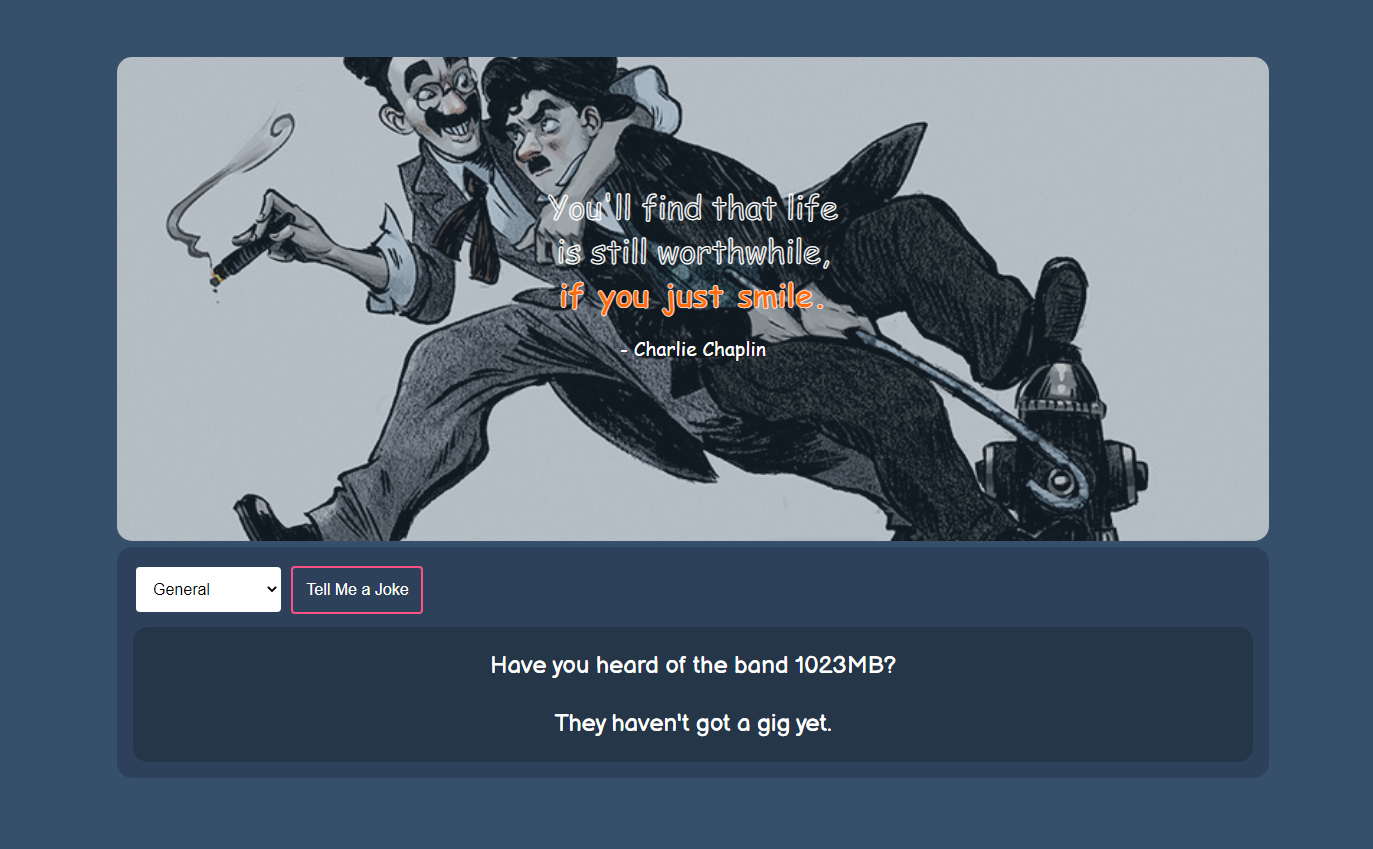
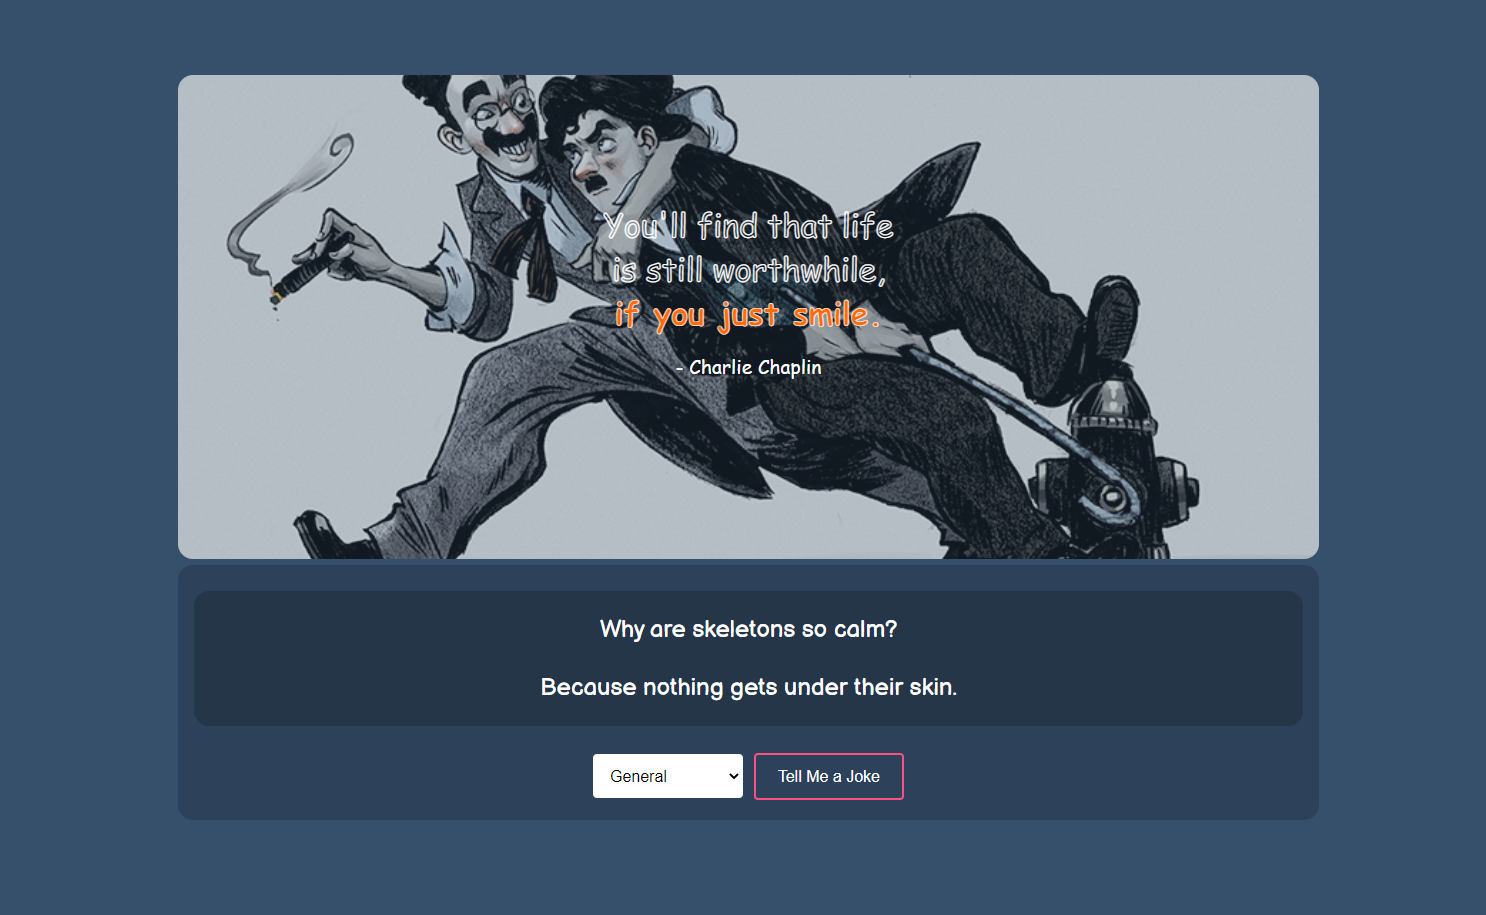
docs : Update README

diff --git a/README.md b/README.md
@@ -3,3 +3,11 @@
 <br/>
 
 [![Joke Screen 1](./content/images/screen1.png)](https://ganesh-tyjo.github.io/joke/)
+
+<br/>
+
+## You can even create your own jokes and add them to **DadJokes** API.
+
+<br/>
+
+[![Joke Screen 2](./content/images/screen2.png)](https://ganesh-tyjo.github.io/joke/)
